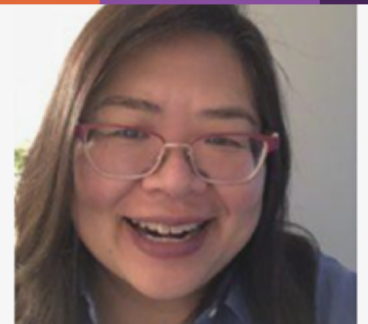
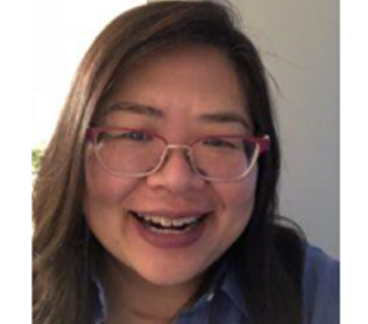
Enhance Board & Staff and Workplace Programs pages with updated content and tags; remove unused sections from Schools & Colleges page; improve Grid component structure.

diff --git a/impact-boston/src/components/Content/Grid.tsx b/impact-boston/src/components/Content/Grid.tsx
@@ -2,11 +2,11 @@ import Grid from '@/components/common/Grid';
 import Image from 'next/image';
 
 interface MemberProps {
-    imageSrc: string;
-    imageAlt: string;
-    name: string;
-    role: string;
-    bio: string;
+  imageSrc: string;
+  imageAlt: string;
+  name: string;
+  role: string;
+  bio: string;
 }
 
 interface GridContentProps {
@@ -21,42 +21,50 @@ export default function GridContent({
   description,
   className = '',
   members,
-}: GridContentProps ) {
+}: GridContentProps) {
   return (
     <div className={`mx-4 md:mx-8 lg:mx-36 py-8 md:py-10 lg:py-18 ${className}`}>
       <Grid>
-          <h3 className="h3 col-span-full lg:col-span-6 ">{title}</h3>
-          {description.map((para, idx) => (
-            <p className="p2 pb-2 col-span-full" key={idx}>{para}</p>
-          ))}
-          {members?.map((member,idx) => (
-            <div className='col-span-full md:grid md:grid-cols-subgrid lg:flex lg:flex-col lg:col-span-4' >
-                <div className='col-span-2'>
-                 <div 
-              style={{
-              height: '8px',
-              width: '100%',
-              background: 'linear-gradient(to right, #E36A38 0%, #E36A38 22%, #874E9F 22%, #874E9F 86%, #462458 86%, #462458 100%)',
-                }}></div>
-                 <Image
-                    src={member.imageSrc}
-                    width={5000}
-                    height={5000}
-                    alt={member.imageAlt}
-                    priority={true}
-                    className='mb-6 md:mbe-0 object-cover w-full height-auto bg-text-grey-light'
-                    style={{ aspectRatio: '1 / 1', width: '100%', height: 'auto'}}
-                    />
+        <h3 className="h3 col-span-full lg:col-span-6">{title}</h3>
 
-                    </div>
-                <div className="col-span-6 lg:col-span-3">
-                <p className="p1-bold">{member.name}</p>
-                <p className="p2 mb-3">{member.role}</p>
-                <p className="p2">{member.bio}</p>
-          </div>
+        {description.map((para, idx) => (
+          <p className="p2 pb-2 col-span-full" key={idx}>
+            {para}
+          </p>
+        ))}
+
+        {members?.map((member, idx) => (
+          <div
+            key={idx}
+            className="col-span-full md:grid md:grid-cols-subgrid lg:flex lg:flex-col lg:col-span-4"
+          >
+            <div className="col-span-2">
+              <div
+                style={{
+                  height: '8px',
+                  width: '100%',
+                  background:
+                    'linear-gradient(to right, #E36A38 0%, #E36A38 22%, #874E9F 22%, #874E9F 86%, #462458 86%, #462458 100%)',
+                }}
+              />
+              <Image
+                src={member.imageSrc}
+                width={5000}
+                height={5000}
+                alt={member.imageAlt}
+                priority
+                className="mb-6 md:mb-0 object-cover w-full h-auto bg-text-grey-light"
+                style={{ aspectRatio: '1 / 1', width: '100%', height: 'auto' }}
+              />
             </div>
 
-          ))}
+            <div className="col-span-6 lg:col-span-3">
+              <p className="p1-bold">{member.name}</p>
+              <p className="p2 mb-3">{member.role}</p>
+              <p className="p2">{member.bio}</p>
+            </div>
+          </div>
+        ))}
       </Grid>
     </div>
   );

diff --git a/impact-boston/src/app/SchoolsAndColleges/page.tsx b/impact-boston/src/app/SchoolsAndColleges/page.tsx
@@ -298,60 +298,7 @@ export default function SchoolAndColleges() {
             },
         ],
         },
-        {
-        label: "Nonprofit",
-        content: [
-            {
-            type: "heading",
-            text: "Safety training that fits how nonprofits actually work",
-            },
-            {
-            type: "paragraph",
-            text: "IMPACT partners with nonprofit organizations to deliver flexible, customized safety and communication training that meets the unique demands of mission-driven work.",
-            },
-            {
-            type: "paragraph",
-            text: "From helping rape crisis counselors manage secondary trauma to equipping shelter workers with conflict de-escalation skills and empowering child care providers to challenge potential abusers, IMPACT tailors its programs to your organization's specific goals, offering large-group demonstrations or hands-on interactive sessions that integrate seamlessly into your existing training structure.",
-            },
-        ],
-        },
-        {
-        label: "Home Visitors",
-        content: [
-            {
-            type: "heading",
-            text: "2 specialized programs for Home Visitors",
-            },
-            {
-            type: "paragraph",
-            text: "Home visitors face a unique challenge. You're in someone else's space, often alone, with no way to fully predict what you'll walk into. These 2 programs were built specifically for that reality.",
-            },
-            {
-            type: "subheading",
-            text: "Verbal Self-Defense & Assertive Communication",
-            },
-            {
-            type: "paragraph",
-            text: "This program covers everything you need to handle tension before it becomes danger. You'll practice de-escalation strategies for diffusing hostility in the moment, boundary-setting techniques for holding your ground with confidence, and skills for navigating difficult or uncomfortable conversations without backing down. Everything is learned through realistic scenario-based practice — not lectures, not handouts.",
-            },
-            {
-            type: "paragraph",
-            text: "Best for teams looking to build everyday communication confidence and a strong first line of response.",
-            },
-            {
-            type: "subheading",
-            text: "Verbal & Physical Self-Defense",
-            },
-            {
-            type: "paragraph",
-            text: "Everything in the verbal training, plus the physical skills to protect yourself if it ever comes to that. Physical defense is always the last resort; the goal is always to de-escalate and exit safely. But knowing you have those skills changes how you carry yourself in the field. Participants leave with more than techniques. They leave with a different kind of confidence.",
-            },
-            {
-            type: "paragraph",
-            text: "Best for home visitors in higher-risk environments, or organizations that want to give their teams the most complete preparation possible.",
-            },
-        ],
-        },
+       
          ]}
         />
         <Split

diff --git a/impact-boston/src/components/Hero/Hero2.tsx b/impact-boston/src/components/Hero/Hero2.tsx
@@ -1,8 +1,14 @@
 import Image from "next/image";
 import Grid from "../common/Grid";
 
+//possibly multiple tags
+type TagItem = {
+  text: string;
+  className?: string;
+};
+
 interface Hero2Props {
-  tag?: string;
+   tag?: string | TagItem[];
   title: string;
   highlight?: string;
   highlightColor?: 'primary' | 'secondary' | 'complementary';
@@ -34,10 +40,21 @@ export default function Hero2({
     <div className="mx-4 md:mx-8 lg:mx-36 py-8 md:py-10 lg:py-18">
       <Grid>
         {tag && (
-          <div className="sub-2 col-span-full flex justify-center text-black mb-4 ">
-            <div className="tag bg-secondary-light bg-opacity-50 p-2">{tag}</div>
+          <div className="sub-2 col-span-full flex justify-center text-black">
+            <div className="tag bg-secondary-light/50 p-2 flex items-center gap-2 rounded-full">
+              {typeof tag === "string" ? (
+                <span>{tag}</span>
+              ) : (
+                tag.map((item, idx) => (
+                  <span key={idx} className={item.className}>
+                    {item.text}
+                  </span>
+                ))
+              )}
+            </div>
           </div>
         )}
+
         <h1 className="h1 col-span-full text-center text-black">
           {title}{' '}
           {highlight ? (

diff --git a/impact-boston/src/app/WorkplacePrograms/page.tsx b/impact-boston/src/app/WorkplacePrograms/page.tsx
@@ -11,8 +11,8 @@ export default function WorkplacePrograms() {
     <>
       <Hero2
         tag='Workplace Programs'
-        title="De-Escalate with Confidence"
-        description="IMPACT De-Escalation Training teaches practical, scenario-based skills for creating and maintaining safety in high-stress situations. Built for frontline workers, educators, and community members, our training prepares you to respond not just react, when someone becomes angry, threatening, or disruptive."
+        title="Team Building with a Purpose"
+        description="IMPACT offers fun, interactive, and practical self-defense and effective communication workshops that help employees increase their confidence and awareness. Employees can learn practical strategies to set boundaries, have challenging conversations, de-escalate potentially dangerous situations, and resist attempted violence. Whether you are addressing a specific concern or looking for an addition to your organization’s employee training program, IMPACT’s workplace programs can help."
         imageSrc="/images/workplacePrograms/placeholder.png"
         imageAlt="Group Pictures"
       />
@@ -57,8 +57,8 @@ export default function WorkplacePrograms() {
       cards={[
         {
           type: "default",
-          title: "Assertiveness/Boundary Setting",
-          description: "Our self-defense classes simulate scenarios of threat, intimidation and violence perpetrated by strangers and people we know. Classes are taught by a team of two instructors, one of whom takes on the role of a perpetrator. They wear a full suit of body armor so students can safely defend themselves using the same force needed in a real attack.",
+          title: "Boundary Setting",
+          description: "Students learn practical steps to identify, communicate, and reinforce their boundaries, as well as skills to negotiate effectively. Practicing these skills in realistic scenarios gives students the opportunity to learn how to stay calm and explain their needs in situations involving strangers and people they know.",
           bgClass: 'bg-complementary-light',
         },
         {
@@ -79,9 +79,9 @@ export default function WorkplacePrograms() {
     <Testimonial
       heading="Participant Spotlight"
       subheading="Hear From One of Our Participants"
-      quote="Meg Stone has written a powerful, accessible, and devastatingly acute analysis of the pervasiveness of gender-based violence and why our efforts to prevent it have failed, packed with expert insight drawn from her decades-long career and practical tips to empower women and others who are targeted. The Cost of Fear moved me, enraged me, and educated me. I don't think I'll ever stop thinking about it. I wish this book weren't necessary. But until we live in a better world, get this book."
-      author="Alex Marzano-Lesnevich"
-      authorTitle='author of "The Fact of a Body"'
+      quote="I thought the class was fantastic! I liked that there was an equal emphasis on physical presence, use of voice and awareness. Learning about statistics and the common behaviors of attackers was just as important to me as the hands on practice. The instructors were very convincing in their roles and created realistic scenarios. I’d definitely take another class if offered."
+      author="Employee"
+      authorTitle='Merrimack Pharmaceuticals'
     />
     <Highlight2
       title="The right training changes everything."
@@ -92,8 +92,6 @@ export default function WorkplacePrograms() {
       ctaLabel="Book a session"
       ctaHref="/Sessions"
       supportingText="Custom scheduling available. Most organizations book 4–6 weeks out."
-      // backgroundColor="var(--color-secondary)"
-      // textColor="var(--color-secondary-light)"
     />
     </>
   );

diff --git a/impact-boston/src/app/BoardAndStaff/page.tsx b/impact-boston/src/app/BoardAndStaff/page.tsx
@@ -10,6 +10,11 @@ export default function AboutImpact() {
   return (
     <>
       <Hero2
+       tag={[
+          { text: "Supportive.", className: "text-complementary" },
+          { text: "Specialized.", className: "text-secondary" },
+          { text: "IMPACTFUL.", className: "text-black" },
+        ]}
         title="Board & Staff"
         description="IMPACT instructors will travel to your school and work with you to design a program that best fits your educational goals and schedule.  Programming schedules can vary from an intensive one-day workshop to year-long classes. We have experience collaborating with educators in Physical Education, Health, Wellness, Guidance & Counseling, English, Social Studies, and extracurricular programs."
         imageSrc="/images/boardAndStaff/group.png"
@@ -22,7 +27,7 @@ export default function AboutImpact() {
           {text: "Meg Stone has been with IMPACT since 2002 and became Executive Direct in 2005. She has created customized safety training programs for schools, community groups, workplaces, and activists. She has led organizational abuse prevention initiatives in schools, disability services, sports, and performing arts.", bold:true},
           {text: "She is the author of two books,  The Cost of Fear: Why Most Safety Advice is Sexist and How We Can Stop Gender-based Violence and “Don’t Fight Back” and 10 Other Myths About Crime, Personal Safety, and Gender-based Violence. Meg is a recipient of the Visionary Voice Award from the National Sexual Violence Resource Center, and was chosen by the US Centers for Disease Control and Prevention as an expert panelist aiding in the development of their standards for preventing sexual abuse in youth-serving organizations. Her writing has been published in Huffington Post, Newsweek, Washington Post, Boston Globe, Dame, and Ms. Meg lives in Cambridge, Massachusetts, with her partner, Mal, and a shockingly large collection of musical theater cast albums."}
         ]}
-        imageSrc="/images/boardAndStaff/meg-headshot.png"
+        imageSrc="/images/boardAndStaff/headshots/meg-headshot.png"
         imageAlt="Team Picture"
       />
       <GridContent